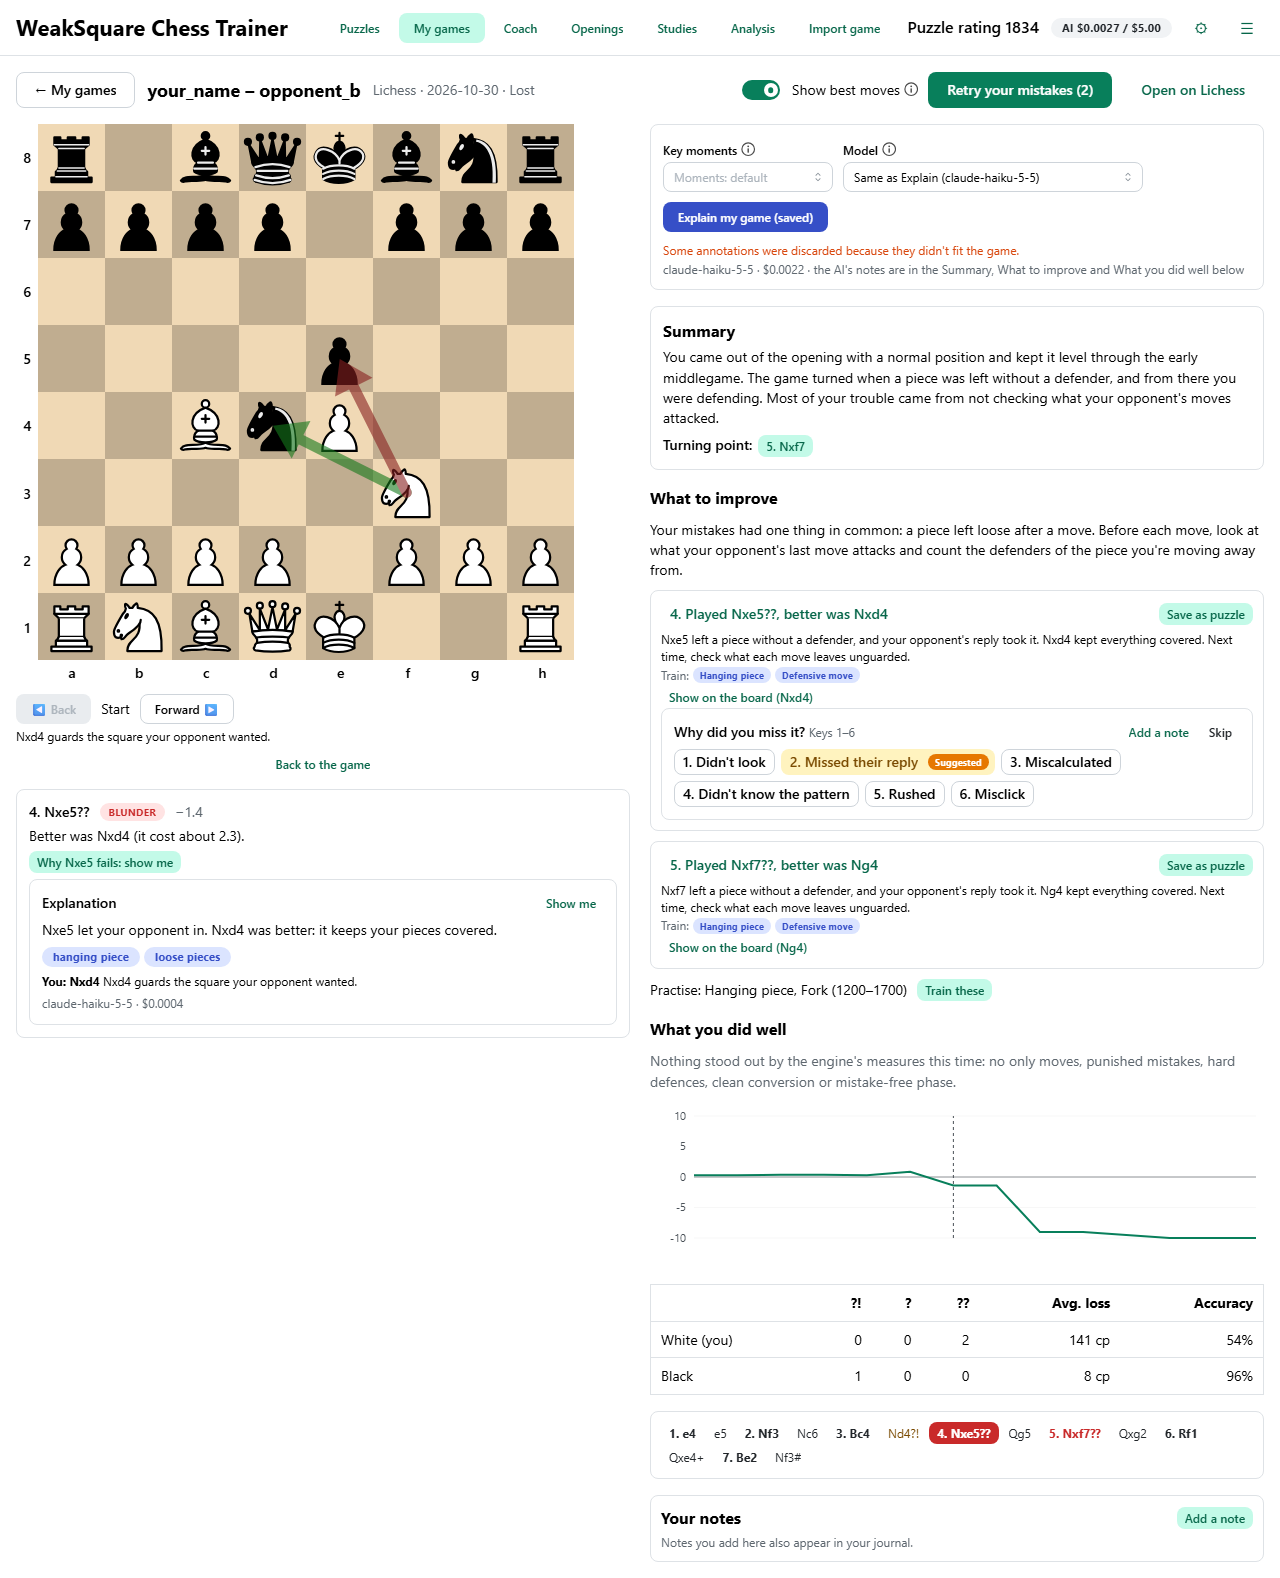
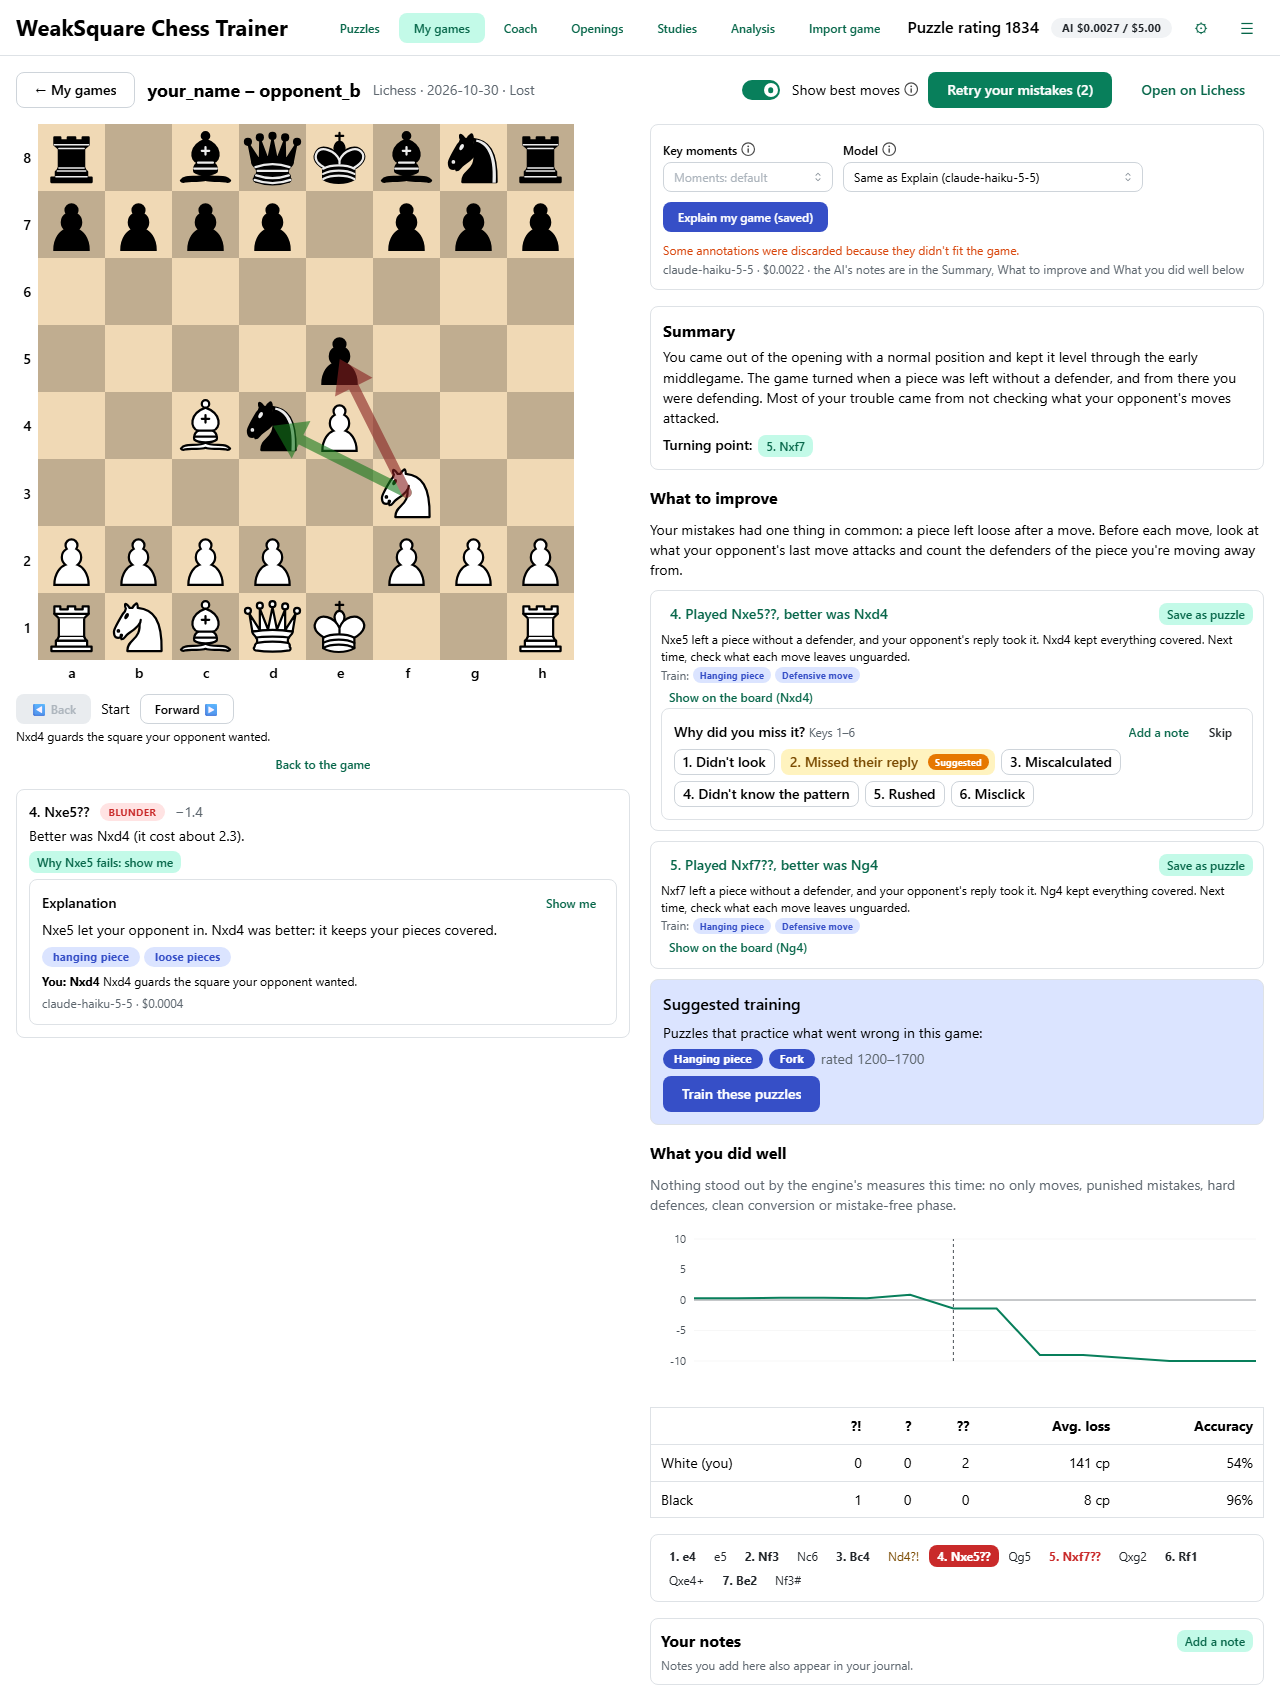
M2 copy text, M3 Suggested training box
Adam's v0.15-rc1 manual test:
- M2: nothing in the app could be selected or copied. pywebview turns
  text selection off unless create_window gets text_select=True. The
  board keeps user-select: none; the right-click menu stays off (its
  Reload would drop state). NFR-8b. Smoke regression test, fails
  without the fix.
- M3: the recommended puzzles were one small "Practise:" line. Now a
  Suggested training box at the end of What to improve, with the themes
  as badges, the rating range and a Train these puzzles button (still
  confirmed first). Spelled "practice".

Docs: REQUIREMENTS, User Guide (shortcut table, Explain my game),
CHANGELOG, qa/manual-v0.15.md, plan, game-review-ai screenshot.

diff --git a/web/src/components/GameAiPanel.tsx b/web/src/components/GameAiPanel.tsx
@@ -290,21 +290,34 @@ export function TurningPoint({ x, onJump }: { x: GameNarrative; onJump: (ply: nu
   );
 }
 
-/** The recommended preset, at the end of What to improve, and its Train these confirmation (FR-11.18). */
-export function NarrativePractise({ preset, onTrain }: { preset: SuggestedPreset; onTrain: (p: SuggestedPreset) => void }) {
+/** Suggested training, the last part of What to improve (v0.15, Adam): the recommended puzzle set, set off in its own
+ * box so it's seen, with a button that takes you to those puzzles after a confirmation (FR-11.18). */
+export function SuggestedTraining({ preset, onTrain }: { preset: SuggestedPreset; onTrain: (p: SuggestedPreset) => void }) {
   const [train, setTrain] = useState(false);
   const range = preset.rating_min !== null || preset.rating_max !== null;
   return (
     <>
-      <Group gap="xs" data-testid="narrative-practise">
-        <Text size="sm">
-          Practise: {preset.names.join(", ")}
-          {range ? ` (${preset.rating_min ?? "any"}–${preset.rating_max ?? "any"})` : ""}
-        </Text>
-        <Button size="compact-xs" variant="light" onClick={() => setTrain(true)} data-testid="narrative-train">
-          Train these
-        </Button>
-      </Group>
+      <Paper withBorder p="sm" bg="var(--mantine-color-indigo-light)" data-testid="suggested-training">
+        <Stack gap={6}>
+          <Text fw={600}>Suggested training</Text>
+          <Text size="sm">Puzzles that practice what went wrong in this game:</Text>
+          <Group gap={6}>
+            {preset.names.map((name) => (
+              <Badge key={name} variant="filled" color="indigo" style={{ textTransform: "none" }} data-testid="suggested-theme">
+                {name}
+              </Badge>
+            ))}
+            {range && (
+              <Text size="sm" c="dimmed" data-testid="suggested-range">
+                rated {preset.rating_min ?? "any"}–{preset.rating_max ?? "any"}
+              </Text>
+            )}
+          </Group>
+          <Button color="indigo" w="fit-content" onClick={() => setTrain(true)} data-testid="narrative-train">
+            Train these puzzles
+          </Button>
+        </Stack>
+      </Paper>
       <Modal opened={train} onClose={() => setTrain(false)} title="Train these?" data-testid="train-confirm">
         <Stack>
           <Text size="sm">

diff --git a/web/src/views/ReviewView.tsx b/web/src/views/ReviewView.tsx
@@ -25,7 +25,7 @@ import { answerPositions, AnswerPlayer } from "../components/AnswerPlayer";
 import { Board, type BoardShape } from "../components/Board";
 import { EvalGraph } from "../components/EvalGraph";
 import { showMeFor } from "../components/ExplainPanel";
-import { GameNarrativePanel, MomentNote, MoveExplain, NarrativePractise, PartSummary, TurningPoint } from "../components/GameAiPanel";
+import { GameNarrativePanel, MomentNote, MoveExplain, PartSummary, SuggestedTraining, TurningPoint } from "../components/GameAiPanel";
 import { GameNotes } from "../components/GameNotes";
 import { ReasonChips } from "../components/ReasonChips";
 import { CLASS_COLOR, PLATFORM_LABEL, cap, gameDate, gamePrompt, moveLabel, resultLabel } from "../state/games";
@@ -626,7 +626,7 @@ export function ReviewView({
                   );
                 })}
                 {saved && <Text size="xs" c="dimmed" data-testid="saved-note">{saved}</Text>}
-                {narrative?.preset && <NarrativePractise preset={narrative.preset} onTrain={(p) => onTrain?.(p)} />}
+                {narrative?.preset && <SuggestedTraining preset={narrative.preset} onTrain={(p) => onTrain?.(p)} />}
               </Stack>
             )}
             {review.analyzed && review.stories.length > 0 && (

diff --git a/tests/e2e/test_review_parts_v015_ui.py b/tests/e2e/test_review_parts_v015_ui.py
@@ -2,7 +2,7 @@
 
 1. **Summary:** the AI's general summary of the game, in place of the computed sentences, with the turning point.
 2. **What to improve:** the AI's own short summary, then the key moments with their notes, each tagged with the
-   training ideas it points to, then Practise / Train these.
+   training ideas it points to, then the Suggested training box with Train these puzzles.
 3. **What you did well:** the AI's own short summary, then each computed strength with the AI's words on it.
 
 There is one What you did well section, not two, and the narrative panel holds only the controls and the cost."""
@@ -49,12 +49,12 @@ def test_summary_and_what_to_improve_open_with_their_own_summaries(page: Any) ->
     ai = summary.get_by_test_id("review-ai-summary").inner_text()
     assert ai.startswith("You came out of the opening") and "Stockfish found" not in summary.inner_text()
     summary.get_by_test_id("narrative-turning-point").wait_for()
-    # 2. What to improve: its summary comes before the first key moment, Practise after the last.
+    # 2. What to improve: its summary comes before the first key moment, Suggested training after the last.
     improve = page.get_by_test_id("key-moments")
     assert improve.locator("h5").inner_text() == "What to improve"
     first = improve.get_by_test_id("moment-6")
     assert _y(improve.get_by_test_id("review-improve-summary")) < _y(first)
-    assert _y(improve.get_by_test_id("narrative-practise")) > _y(first)
+    assert _y(improve.get_by_test_id("suggested-training")) > _y(first)
     # The narrative panel keeps only its controls and the cost.
     panel = page.get_by_test_id("narrative-panel")
     assert panel.get_by_test_id("review-ai-summary").count() == 0
@@ -99,3 +99,19 @@ def _y(locator: Any) -> float:
     box = locator.bounding_box()
     assert box is not None
     return float(box["y"])
+
+
+def test_suggested_training_is_its_own_box_and_takes_you_to_those_puzzles(page: Any) -> None:
+    """v0.15 manual test M3 (Adam): the recommended puzzle set was a small "Practise:" line, easy to miss. It's now a
+    Suggested training box at the end of What to improve, spelled "practice", with Train these puzzles."""
+    review(page, 1)
+    explain(page)
+    box = page.get_by_test_id("key-moments").get_by_test_id("suggested-training")
+    text = box.inner_text()
+    assert "Suggested training" in text and "Practise" not in text and "practice" in text
+    assert [b.inner_text() for b in box.get_by_test_id("suggested-theme").all()] == ["Hanging piece", "Fork"]
+    assert box.get_by_test_id("suggested-range").inner_text() == "rated 1200–1700"
+    box.get_by_test_id("narrative-train").click()
+    page.get_by_test_id("train-apply").click()
+    page.get_by_test_id("trainer-page").wait_for()
+    page.get_by_test_id("themes-picker").filter(has_text="2 selected").wait_for()

diff --git a/tests/smoke/test_real_app_text_select.py b/tests/smoke/test_real_app_text_select.py
@@ -1,0 +1,35 @@
+"""v0.15 manual test M2 (Adam): text in the app can be selected and copied. pywebview turns text selection off for
+the whole page unless the window asks for it; the board keeps its own user-select: none, so dragging pieces never
+highlights anything."""
+
+from __future__ import annotations
+
+import shutil
+from pathlib import Path
+
+import pytest
+
+from tests.smoke.conftest import attach, free_port, launch_app
+
+pytestmark = pytest.mark.smoke
+
+
+def test_text_is_selectable_but_not_the_board(pw, tmp_path: Path, fixture_puzzles_db: Path) -> None:  # type: ignore[no-untyped-def]
+    data_dir = tmp_path / "app-data"
+    data_dir.mkdir()
+    shutil.copyfile(fixture_puzzles_db, data_dir / "puzzles.db")
+    app = launch_app(data_dir, free_port())
+    try:
+        with attach(pw, app) as page:
+            page.get_by_test_id("match-count").filter(has_text="puzzles match").wait_for(timeout=30_000)
+            assert page.evaluate("getComputedStyle(document.body).userSelect") != "none"
+            # Selecting the page really selects text (what Ctrl+C copies).
+            page.evaluate("document.execCommand('selectAll')")
+            assert "puzzles match" in page.evaluate("String(window.getSelection())")
+            # The board doesn't: open the Analysis tab, where one is always drawn.
+            page.get_by_test_id("nav-analysis").click()
+            board = page.get_by_test_id("analysis-view").locator("cg-board")
+            board.wait_for()
+            assert board.evaluate("el => getComputedStyle(el).userSelect") == "none"
+    finally:
+        app.close()

diff --git a/tests/e2e/test_qa_v09_ui.py b/tests/e2e/test_qa_v09_ui.py
@@ -62,7 +62,7 @@ def test_qa_user_guide_explain_my_game_steps_and_screens(page) -> None:  # type:
     for tid in ("review-ai-summary", "narrative-turning-point", "review-improve-summary", "narrative-train",
                 "moment-note-6", "moment-note-8"):  # fmt: skip
         page.get_by_test_id(tid).wait_for()
-    assert "Practise:" in page.get_by_test_id("narrative-practise").inner_text()
+    assert "Suggested training" in page.get_by_test_id("suggested-training").inner_text()
     shot(page, "narrative")
     page.get_by_test_id("moment-show-8").click()
     page.get_by_test_id("review-show-note").wait_for()

diff --git a/src/weaksquare/app.py b/src/weaksquare/app.py
@@ -631,6 +631,9 @@ def main(argv: Sequence[str] | None = None) -> int:
         height=860,
         min_size=(1000, 700),
         background_color=window_background(scheme, system_prefers_dark()),
+        # pywebview blocks selecting text unless asked (Adam, v0.15 manual test: copy text out of the app). The board
+        # keeps its own user-select: none; Ctrl+C copies. The right-click menu stays off: its Reload would drop state.
+        text_select=True,
     )
     if window is None:  # pragma: no cover - pywebview returns None only if creation failed
         raise RuntimeError("could not create the window")

diff --git a/REQUIREMENTS.md b/REQUIREMENTS.md
@@ -624,7 +624,7 @@ The Coach looks at your games the way a tutor would: tactics, but also strategy,
   - **Explain my game** (FR-11.18) receives this list as grounded context and adds a short "what you did well" part. It may explain only the listed strengths, never add its own. Its cache key includes a new prompt version, so earlier narratives aren't reused.
   - **The AI fills the same three parts** (Adam, 2026-11-08, v0.15-rc1 manual test; built in **v0.15**). Explain my game doesn't add a block of its own: there is one Summary, one What to improve and one What you did well.
     1. **Summary:** the AI's general summary replaces the computed sentences (which return without it). It reads as a summary, not a list of moves: what you struggled with and what went right, pointing at a move number at most. The turning point sits under it.
-    2. **What to improve:** opens with the AI's own 2–3-sentence summary of the patterns behind your mistakes, then the key moments with their notes (each ending with what to look for next time). Each key moment is tagged with up to 3 **training ideas**: puzzle theme keys from the preset's allowed list (FR-10.23), validated the same way, shown by name. The recommended preset (Practise / Train these) closes this part.
+    2. **What to improve:** opens with the AI's own 2–3-sentence summary of the patterns behind your mistakes, then the key moments with their notes (each ending with what to look for next time). Each key moment is tagged with up to 3 **training ideas**: puzzle theme keys from the preset's allowed list (FR-10.23), validated the same way, shown by name. The recommended preset closes this part in its own **Suggested training** box (Adam, M3: the earlier "Practise:" line was easy to miss), with **Train these puzzles**.
     3. **What you did well:** opens with the AI's own 1–3-sentence summary, then each computed strength with the AI's words on it underneath. With no computed strength, the AI's summary is dropped too, so it still never invents praise.
     - The opening summary, recurring themes and takeaways are gone (the general summary and the part summaries cover them). The cache key's prompt version changes again, so a narrative saved before v0.15 isn't reused.
   - The rules respect **Show best moves** (FR-11.35): an only-move item names your move, never the engine's alternative.
@@ -792,6 +792,7 @@ Estimated cost per request at these prices (my token estimates; actual usage get
     - **The icon:** four board squares (2×2, in the board's light and dark colors) with a **black** queen on top (chosen over a white queen because the solid shape stays readable at 32 px and below). The queen comes from the **cburnett** piece set the board already uses (Colin M. L. Burnett, GPL-2.0-or-later, shipped with chessground), so its license is compatible with AGPL-3.0.
     - **Files:** the SVG source is committed. A small script builds a multi-size `.ico` (16–256 px) from it, and the `.ico` is committed too, so `setup.py` needs no image tools. Both shortcuts use it, and the app window and taskbar use it where pywebview allows. The plan checks how to make the taskbar show it rather than the Python icon.
     - **Credits:** recorded in the repo's asset credits and ARCHITECTURE.md §7, like the sounds (§15).
+  - **NFR-8b** **Text can be copied** (Adam, 2026-11-08, v0.15 manual test M2; built in **v0.15**). Text in the window can be selected with the mouse and copied with Ctrl+C, as in a browser (pywebview's `text_select`). The board stays unselectable so dragging pieces never highlights anything. The right-click menu stays off: WebView2's default one offers Reload, which would drop what's on screen.
 
 ---
 

diff --git a/docs/USER_GUIDE.md b/docs/USER_GUIDE.md
@@ -734,7 +734,7 @@ After about half a minute, the AI's words appear in the review's [three parts](#
 2. **What to improve:** a short summary of what your mistakes had in common, then the key moments. Each key moment gets a note on what went wrong, why the better move is better and what to look for next time, with **Show on the board** for its arrows and the better line. Under the note, **Train:** tags the puzzle themes that practise that kind of moment, for example *Hanging piece*.
 3. **What you did well:** a short summary of your strengths, then, under up to three of the items on the list, why each was good. The AI may only explain items on that list, never add its own; with nothing on the list, it adds nothing here.
 
-At the end of What to improve there's often a **puzzle recommendation**, for example *Practise: Hanging piece, Fork (1200–1700)*. **Train these** asks first, then sets the puzzle filters to those themes and that rating range and takes you to your puzzles. It replaces the themes and rating you had, and keeps **Match** (any or all) as you set it. Themes apply only to Lichess puzzles without a mix by ratio, so if **Puzzles from** was **My puzzles**, it switches to **Lichess DB**, and **Mix by ratio** turns off. Your other filters and your saved presets don't change.
+What to improve usually ends with a **Suggested training** box: the puzzle themes that practice what went wrong, for example *Hanging piece* and *Fork*, rated 1200–1700. **Train these puzzles** asks first, then sets the puzzle filters to those themes and that rating range and takes you to your puzzles. It replaces the themes and rating you had, and keeps **Match** (any or all) as you set it. Themes apply only to Lichess puzzles without a mix by ratio, so if **Puzzles from** was **My puzzles**, it switches to **Lichess DB**, and **Mix by ratio** turns off. Your other filters and your saved presets don't change.
 
 The game then shows **AI-reviewed** in My games.
 
@@ -1264,6 +1264,7 @@ On the analysis board after a puzzle, and under **Analyze from here** in Game Re
 | **S** / **U** | Danger spotting: call the highlighted move Safe or Unsafe (v0.6) |
 | **1**–**6** | After a failed puzzle: pick why you missed it (v0.6) |
 | **?** | The list of shortcuts (also in **☰ → Keyboard shortcuts**) |
+| **Ctrl+C** | Copy the text you've selected (v0.15). Select it with the mouse, as in a browser: an AI explanation, a summary, a FEN. The board itself can't be selected, so dragging pieces never highlights anything. There's no right-click menu |
 
 Shortcuts do nothing while you're typing in a box or a dialog is open, and a key does nothing when its button is greyed out.
 

diff --git a/qa/manual-v0.15.md b/qa/manual-v0.15.md
@@ -13,9 +13,29 @@
 - **Fix:**
   - Explain my game now fills the review's three parts.
   - **Summary** shows the AI's general summary and the turning point.
-  - **What to improve** shows the AI's summary, then the key moments; each note now ends with what to look for next time and has **Train:** theme tags. Practise / Train these comes last.
+  - **What to improve** shows the AI's summary, then the key moments; each note now ends with what to look for next time and has **Train:** theme tags. The recommended puzzles come last (see M3).
   - **What you did well** shows the AI's summary, then each computed strength with the AI's words under it.
   - The narrative panel keeps only the controls and the cost. The prompt asks for prose, not a walk through the moves. Training ideas are checked against the preset's allowed themes.
   - Regression tests:
     - `tests/unit/test_game_explain.py`: the v0.15 section
     - `tests/e2e/test_review_parts_v015_ui.py`
+
+## M2: Text can't be copied out of the app (fixed for v0.15-rc2)
+- **Steps:** try to select and copy any text, such as an AI explanation.
+- **Expected:** select with the mouse, copy with Ctrl+C.
+- **Actual (rc1):** nothing can be selected. pywebview disables text selection on the whole page unless the window asks for it.
+- **Fix:**
+  - The window is created with `text_select=True`.
+  - The board keeps its own `user-select: none`, so dragging pieces never highlights anything.
+  - The right-click menu stays off, because WebView2's default menu has Reload, which would drop the screen's state.
+  - Recorded as NFR-8b.
+  - Regression test: `tests/smoke/test_real_app_text_select.py` (fails without the fix).
+
+## M3: The recommended puzzles are easy to miss (fixed for v0.15-rc2)
+- **Steps:** Explain my game → the end of What to improve.
+- **Expected:** a clear "suggested training" part that links the recommended puzzle set, spelled "practice".
+- **Actual (rc1 + M1):** one small "Practise: Hanging piece, Fork (1200–1700)" line with a tiny Train these button.
+- **Fix:**
+  - A **Suggested training** box (tinted, bordered) with the themes as badges, the rating range, and a full-size **Train these puzzles** button.
+  - The button still confirms before changing the Mixer.
+  - Regression test: `tests/e2e/test_review_parts_v015_ui.py::test_suggested_training_is_its_own_box_and_takes_you_to_those_puzzles`.

diff --git a/CHANGELOG.md b/CHANGELOG.md
@@ -24,8 +24,10 @@ Candidates: v0.15-rc1 (2026-11-08)
 
 ### Changed
 - **Explain my game** now fills the review's three parts instead of adding a block of its own. **Summary** gets a general summary of the game rather than an opening summary. **What to improve** opens with a short summary of what your mistakes had in common, and each key moment is tagged with the puzzle themes that train it. **What you did well** opens with a short summary, and the AI's words sit under the strengths they're about. A game explained before needs a new run for the new version. [FR-11.18, FR-11.36]
+- **Suggested training**: the puzzles Explain my game recommends now have their own box at the end of What to improve, with a **Train these puzzles** button, instead of a small "Practise:" line. [FR-11.36]
 
 ### Fixed
+- **Copying text**: you can now select text in the app with the mouse and copy it with Ctrl+C. The board still can't be selected. [NFR-8b]
 - **Lichess studies**: a chapter containing a null move (`--`) was accepted when the study was added, then showed as damaged when opened. It's now listed as **Can't be used** with the reason, and the rest of the study works. Re-add the study, or use **Check for updates**, to see it. [FR-13.7]
 
 ## [v0.14] - 2026-11-08

diff --git a/plans/v0.15.md b/plans/v0.15.md
@@ -86,6 +86,8 @@ Built in internal steps, each committed and ticked off here. QA runs once, at th
     - Training-idea tags on each key moment.
     - One What you did well, not two.
     - FR-11.36 updated.
+  - [x] M2: text can be selected and copied (pywebview `text_select`), NFR-8b.
+  - [x] M3: Suggested training box at the end of What to improve.
   - [ ] Tag `v0.15-rc2` once Adam's whole checklist is through.
 
 ## Out of scope
